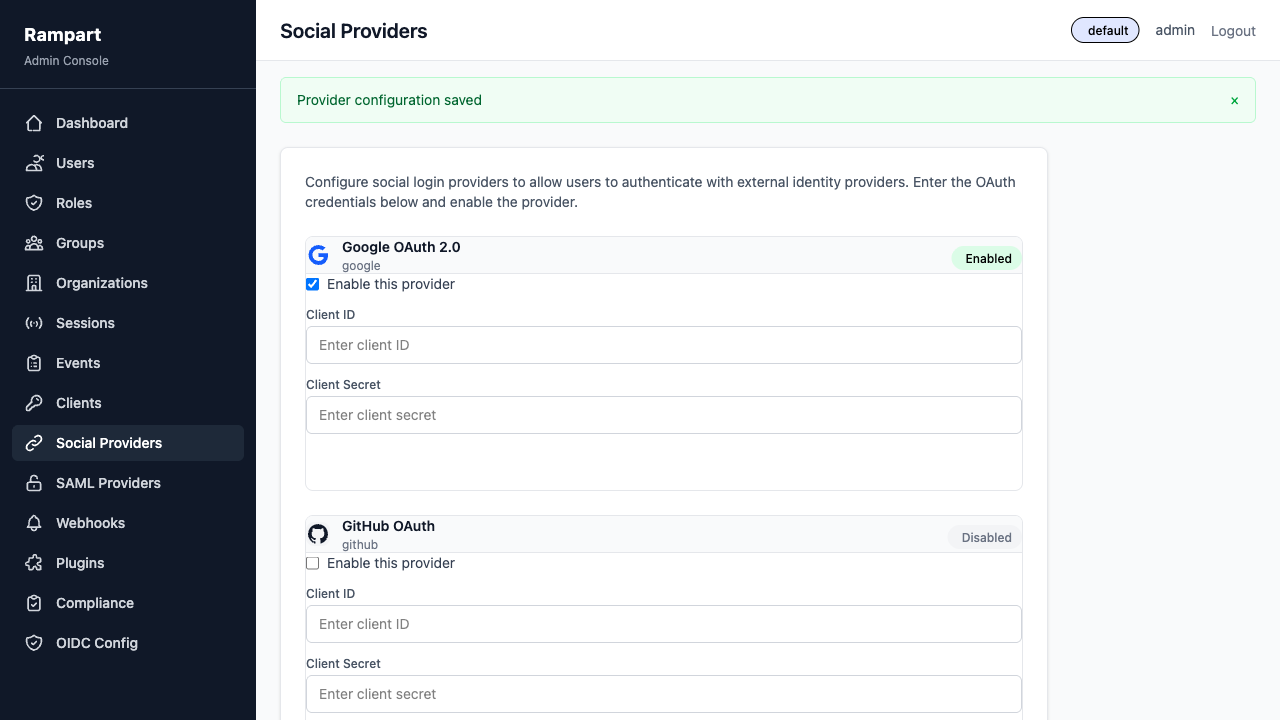
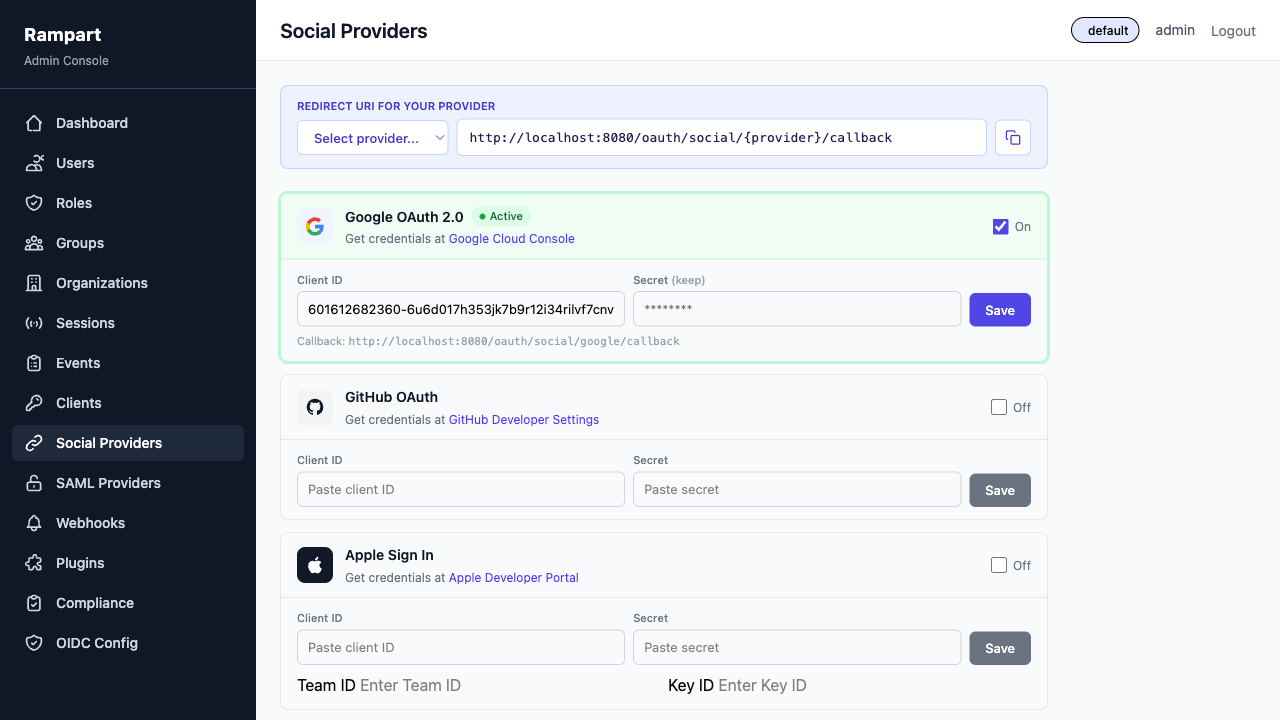
docs: update social providers screenshot, add docs recheck rule to CLAUDE.md

diff --git a/CLAUDE.md b/CLAUDE.md
@@ -43,6 +43,11 @@ Rampart is a Go-based IAM/OAuth 2.0 server with OIDC support.
 - If custom styles are needed, add CSS classes to `internal/handler/static/admin.css`
 - This applies to all Go templates in `internal/handler/templates/`
 
+## CRITICAL: Recheck Docs After Changes
+- After any significant change, launch a separate agent to verify GitHub page, README rendering, screenshots, and badges
+- Check that all links resolve, images render, and badges show correct data
+- Multiple PRs are OK if they touch different files with no conflict risk
+
 ## CRITICAL: Use Full Power by Default
 - Always launch parallel agents when there is independent work
 - Use monitoring, verification, and pentest agents proactively
